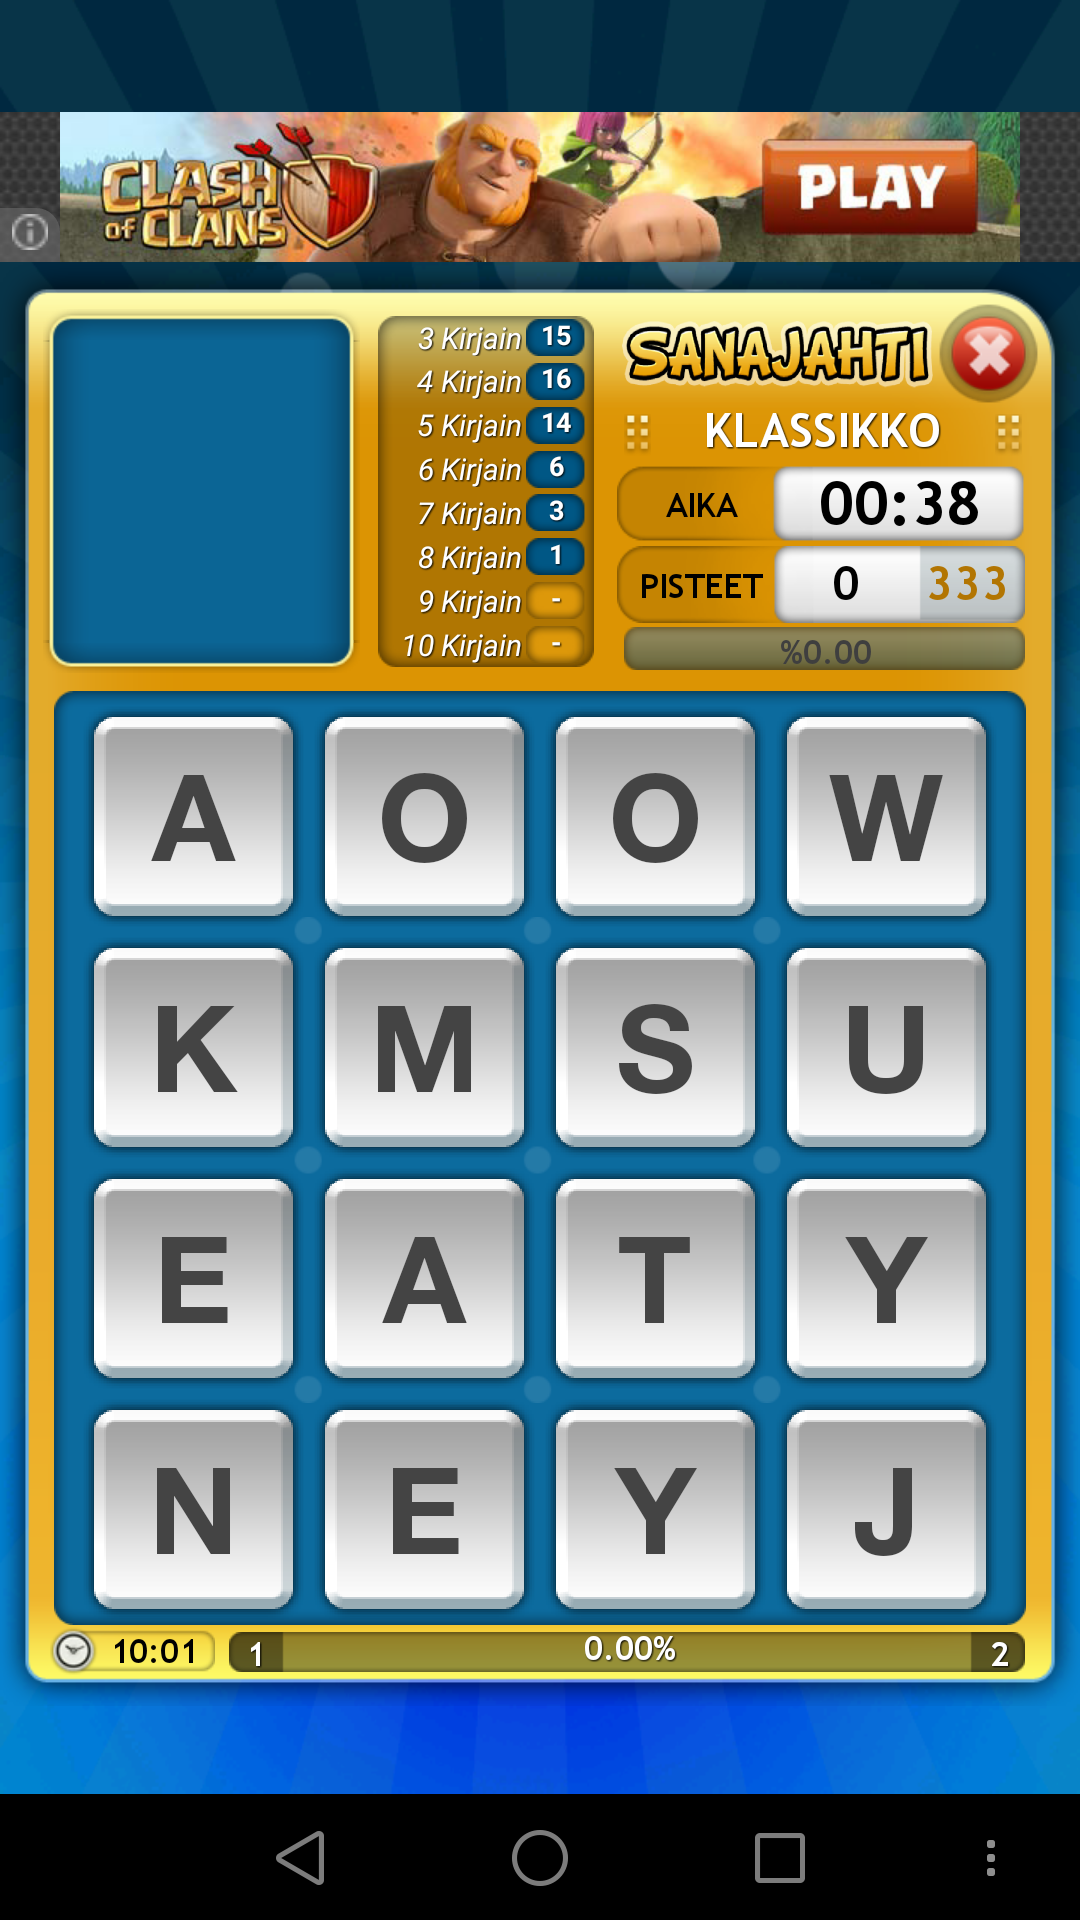
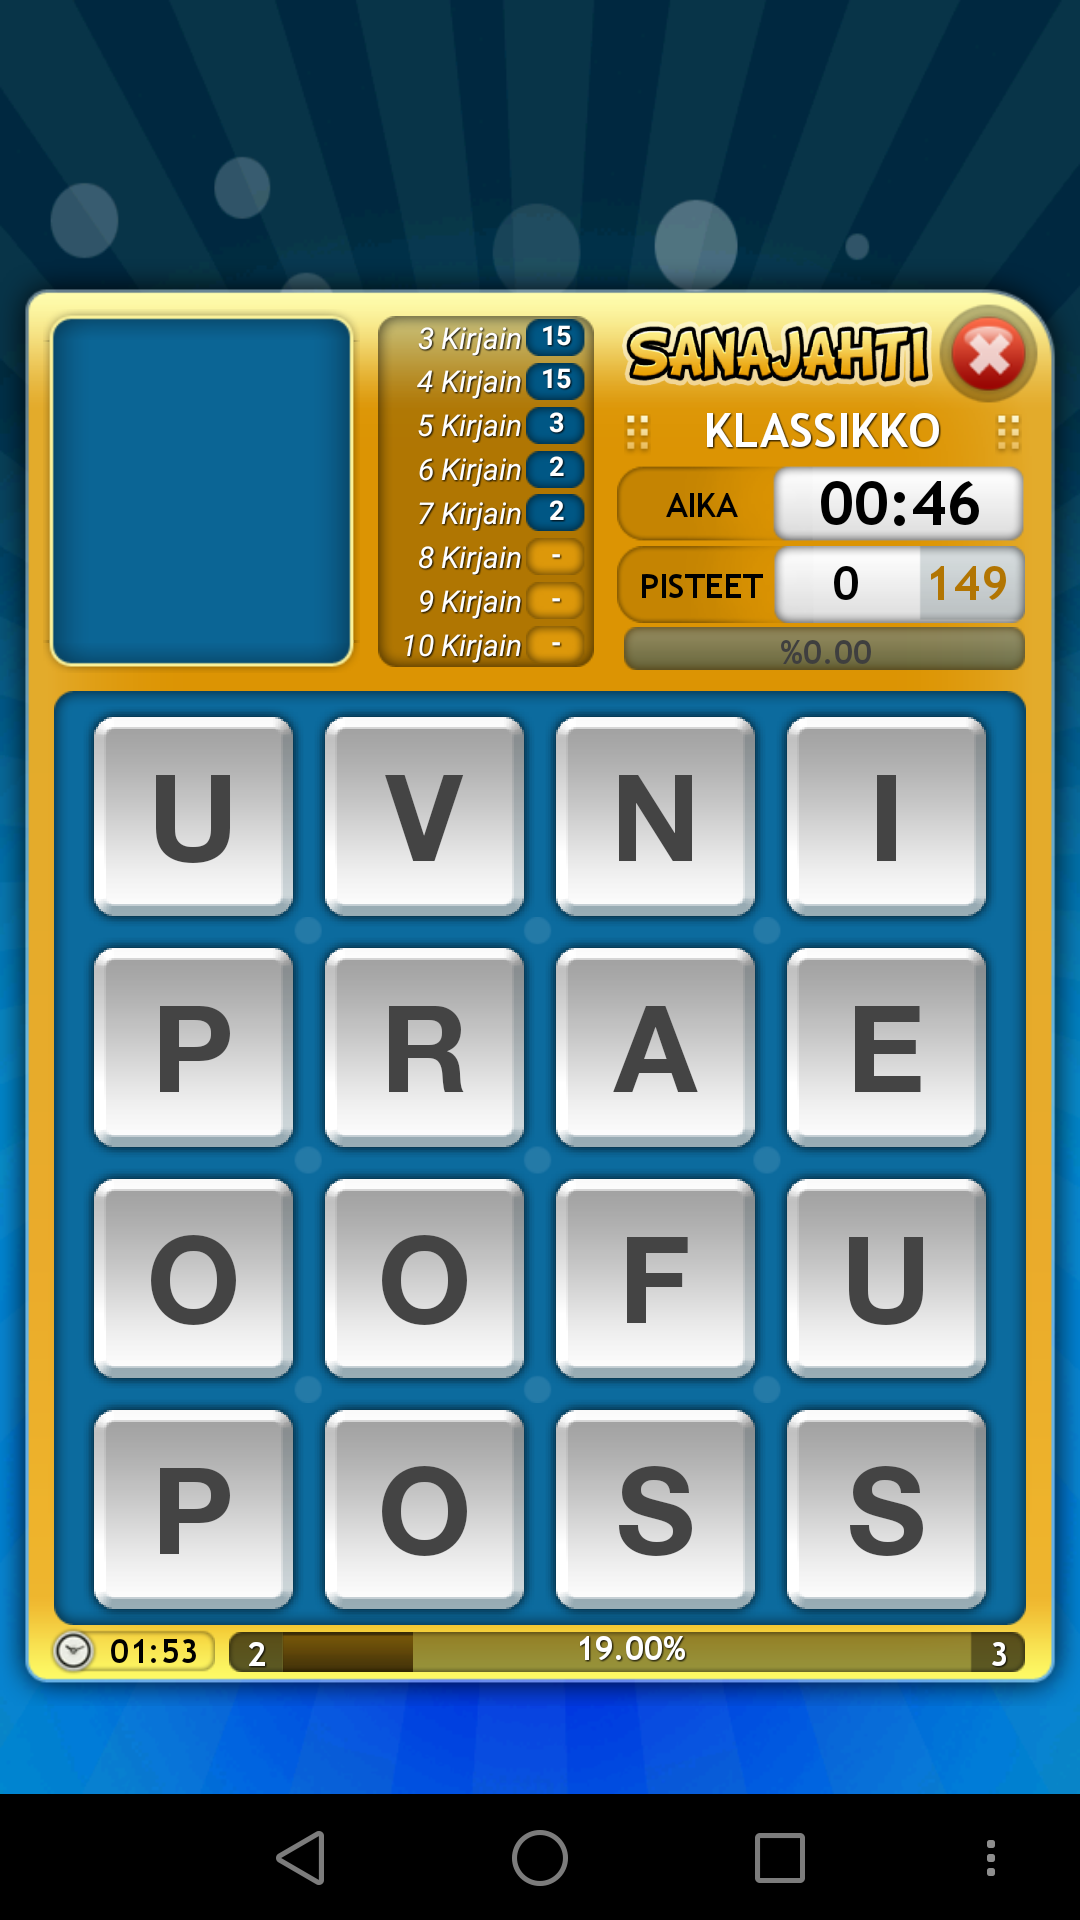
OCR ~95% tunnistus. Ongelmia ääkkösissä ja jossain i-kirjaimissa. Syy tiedossa, fiksaan ku ehtii

diff --git a/src/main.cpp b/src/main.cpp
@@ -19,7 +19,10 @@ switch (signal) {
 exit(signal);
 }
 
-//adb shell screencap -p | perl -pe 's/\x0D\x0A/\x0A/g' > screen.png
+int res_x = 1080;
+int res_y = 1920;
+
+//adb shell screencap -p /tmp/scrot.png && adb pull /tmp/scrot.png");
 int main(int argc, char **argv)
 {
     signal(SIGINT, handler);
@@ -27,6 +30,7 @@ int main(int argc, char **argv)
     setlocale(LC_NUMERIC, "C");
 //Settings
     bool text_ui = false; // Default is to use with GUI
+    bool ocr_on = false;
     bool android_input = false; // Also no inputing to Android
     bool with_paths = false; // We do not print paths if we use GUI
    
@@ -37,13 +41,14 @@ int main(int argc, char **argv)
     int M = 4, N = 4; //Matrix dimensions, default is 4x4 as defined by Sanajahti.
     std::string filename = "sanat.txt"; //default wordlist. Changeable by command flags.
     std::wstring matrix_as_string;
-    while ((options = getopt(argc, argv, "ac:pw:m:o")) != -1) {
+    while ((options = getopt(argc, argv, "ac:pw:m:o::")) != -1) {
         switch(options) {
 	    case 'a': // Android support
 		android_input = true;
 		break;
             case 'c': // Disabling GUI, printing to shell.
-		matrix_as_string = sj::utf8_to_wstring(optarg);
+		if (ocr_on == false)
+			matrix_as_string = sj::utf8_to_wstring(optarg);
 		text_ui = true;
                 break;
      	    case 'p': // Printing words paths as well
@@ -79,8 +84,15 @@ int main(int argc, char **argv)
                 fprintf(stderr,"M: %d, N: %d\n",M,N);
                 break;
             case 'o':
-                ocr();
-                return 2;
+		ocr_on = true;
+		system("adb shell screencap -p /sdcard/scrot.png && adb pull /sdcard/scrot.png");
+                matrix_as_string = sj::utf8_to_wstring(ocr());
+		for (unsigned int i = 0; i < 16; i++) {
+		std::wcout << matrix_as_string[i];
+		if ((i+1) % 4 == 0)
+			std::wcout << std::endl;
+		}
+//		std::wcout << matrix_as_string[0] << " Length: " << matrix_as_string.size() << std::endl;
                 break;
             case '?':
                 if (optopt == 'c')
@@ -123,7 +135,7 @@ int main(int argc, char **argv)
     }
     if (android_input == true) {
 	sj::Solver solver(words, matrix_as_string, M, N);
-        solver.Android_Solve(720, 1280); // Speksattu toistaiseksi vilin S3:selle, lisätään resoluutioflagit
+        solver.Android_Solve(res_x, res_y); // Speksattu toistaiseksi vilin S3:selle, lisätään resoluutioflagit
     }
     return 0;
 }

diff --git a/src/solver.cpp b/src/solver.cpp
@@ -105,31 +105,31 @@ void sj::Solver::Android_Solve(int x_size, int y_size){
     std::stringstream ss;
     int i = 0;
     for (auto word : word_paths){
-        ss << "adb shell sendevent /dev/input/event3 3 57 " << i; //ABS_MT_TRACKING_ID
+        ss << "adb shell sendevent /dev/input/event1 3 57 " << i; //ABS_MT_TRACKING_ID
         system(ss.str().c_str());
         ss.str("");
-        system("adb shell sendevent /dev/input/event3 3 48 3"); // ABS_MT_TOUCH_MAJOR
+        system("adb shell sendevent /dev/input/event6 3 48 3"); // ABS_MT_TOUCH_MAJOR
         
         for (auto path : word.path()){
-            ss << "adb shell sendevent /dev/input/event3 3 53 " << path.x() * offset + x_base_offset; //ABS_MT_POSITION_X
+            ss << "adb shell sendevent /dev/input/event6 3 53 " << path.x() * offset + x_base_offset; //ABS_MT_POSITION_X
             system(ss.str().c_str());
             ss.str("");
-            ss << "adb shell sendevent /dev/input/event3 3 54 " << path.y() * offset + y_base_offset; //ABS_MT_POSITION_Y
+            ss << "adb shell sendevent /dev/input/event6 3 54 " << path.y() * offset + y_base_offset; //ABS_MT_POSITION_Y
             system(ss.str().c_str());
             ss.str("");
             if (i > 0){
                 if( i % 2 == 0){
-                    system("adb shell sendevent /dev/input/event3 3 003e 2"); //Dunno, somekind of swipe
+                    system("adb shell sendevent /dev/input/event6 3 003e 2"); //Dunno, somekind of swipe
                 }
                 else
-                    system("adb shell sendevent /dev/input/event3 3 003e 0"); //Dunno, somekind of swipe
+                    system("adb shell sendevent /dev/input/event6 3 003e 0"); //Dunno, somekind of swipe
             }
-            system("adb shell sendevent /dev/input/event3 0 0 0"); //SYN_REPORT
+            system("adb shell sendevent /dev/input/event6 0 0 0"); //SYN_REPORT
             i++;
         }
         i = 0;
-        system("adb shell sendevent /dev/input/event3 3 57 4294967295"); // ABS_MT_TRACKING_ID
-        system("adb shell sendevent /dev/input/event3 0 0 0"); //SYN_REPORT
+        system("adb shell sendevent /dev/input/event6 3 57 4294967295"); // ABS_MT_TRACKING_ID
+        system("adb shell sendevent /dev/input/event6 0 0 0"); //SYN_REPORT
         ss.str("");
     }
 }

diff --git a/src/ocr.cpp b/src/ocr.cpp
@@ -1,25 +1,27 @@
 #include "ocr.hpp"
 
-std::string ocr();
+std::string ocr()
 {
     int res_x = 1080;
     int res_y = 1920;
     
-    int x_offset = res_x/8.3721;
-    int y_offset = res_y/2.4903;
+    int x_offset = res_x/8.3721; // 130 on fullHD
+    int y_offset = res_y/2.56; // 750 on fullHD
     int tile_size_x = res_x/8.4375;
-    int tile_size_y = res_y/21.099;
+    int tile_size_y = res_y/16;
     int tile_offset = res_x/4.6956;
     char *outText;
     
     std::string luettu;
-    
+
     tesseract::TessBaseAPI *api = new tesseract::TessBaseAPI();
     // Initialize tesseract-ocr with English, without specifying tessdata path
-    if (api->Init(NULL, "eng")) {
+    if (api->Init("/usr/share/tesseract-ocr", "fin")) {
         fprintf(stderr, "Could not initialize tesseract.\n");
         exit(1);
     }
+    api->ReadConfigFile("tess_config");
+    api->SetPageSegMode(tesseract::PSM_SINGLE_CHAR);
 
     // Open input image with leptonica library
     Pix *image = pixRead("scrot.png");
@@ -33,7 +35,6 @@ std::string ocr();
         luettu.push_back(*outText);
         }  
     }
-    std::cout << luettu << std::endl;
     // Destroy used object and release memory
     api->End();
     delete [] outText;

diff --git a/src/ocr.hpp b/src/ocr.hpp
@@ -2,12 +2,14 @@
 #define OCR_HPP
 
 #include <tesseract/baseapi.h>
+#include <tesseract/publictypes.h>
 #include <leptonica/allheaders.h>
+#include <tesseract/genericvector.h>
 #include <iostream>
 
 // Just testing 
 
-int ocr();
+std::string ocr();
 
 // TODO
 
